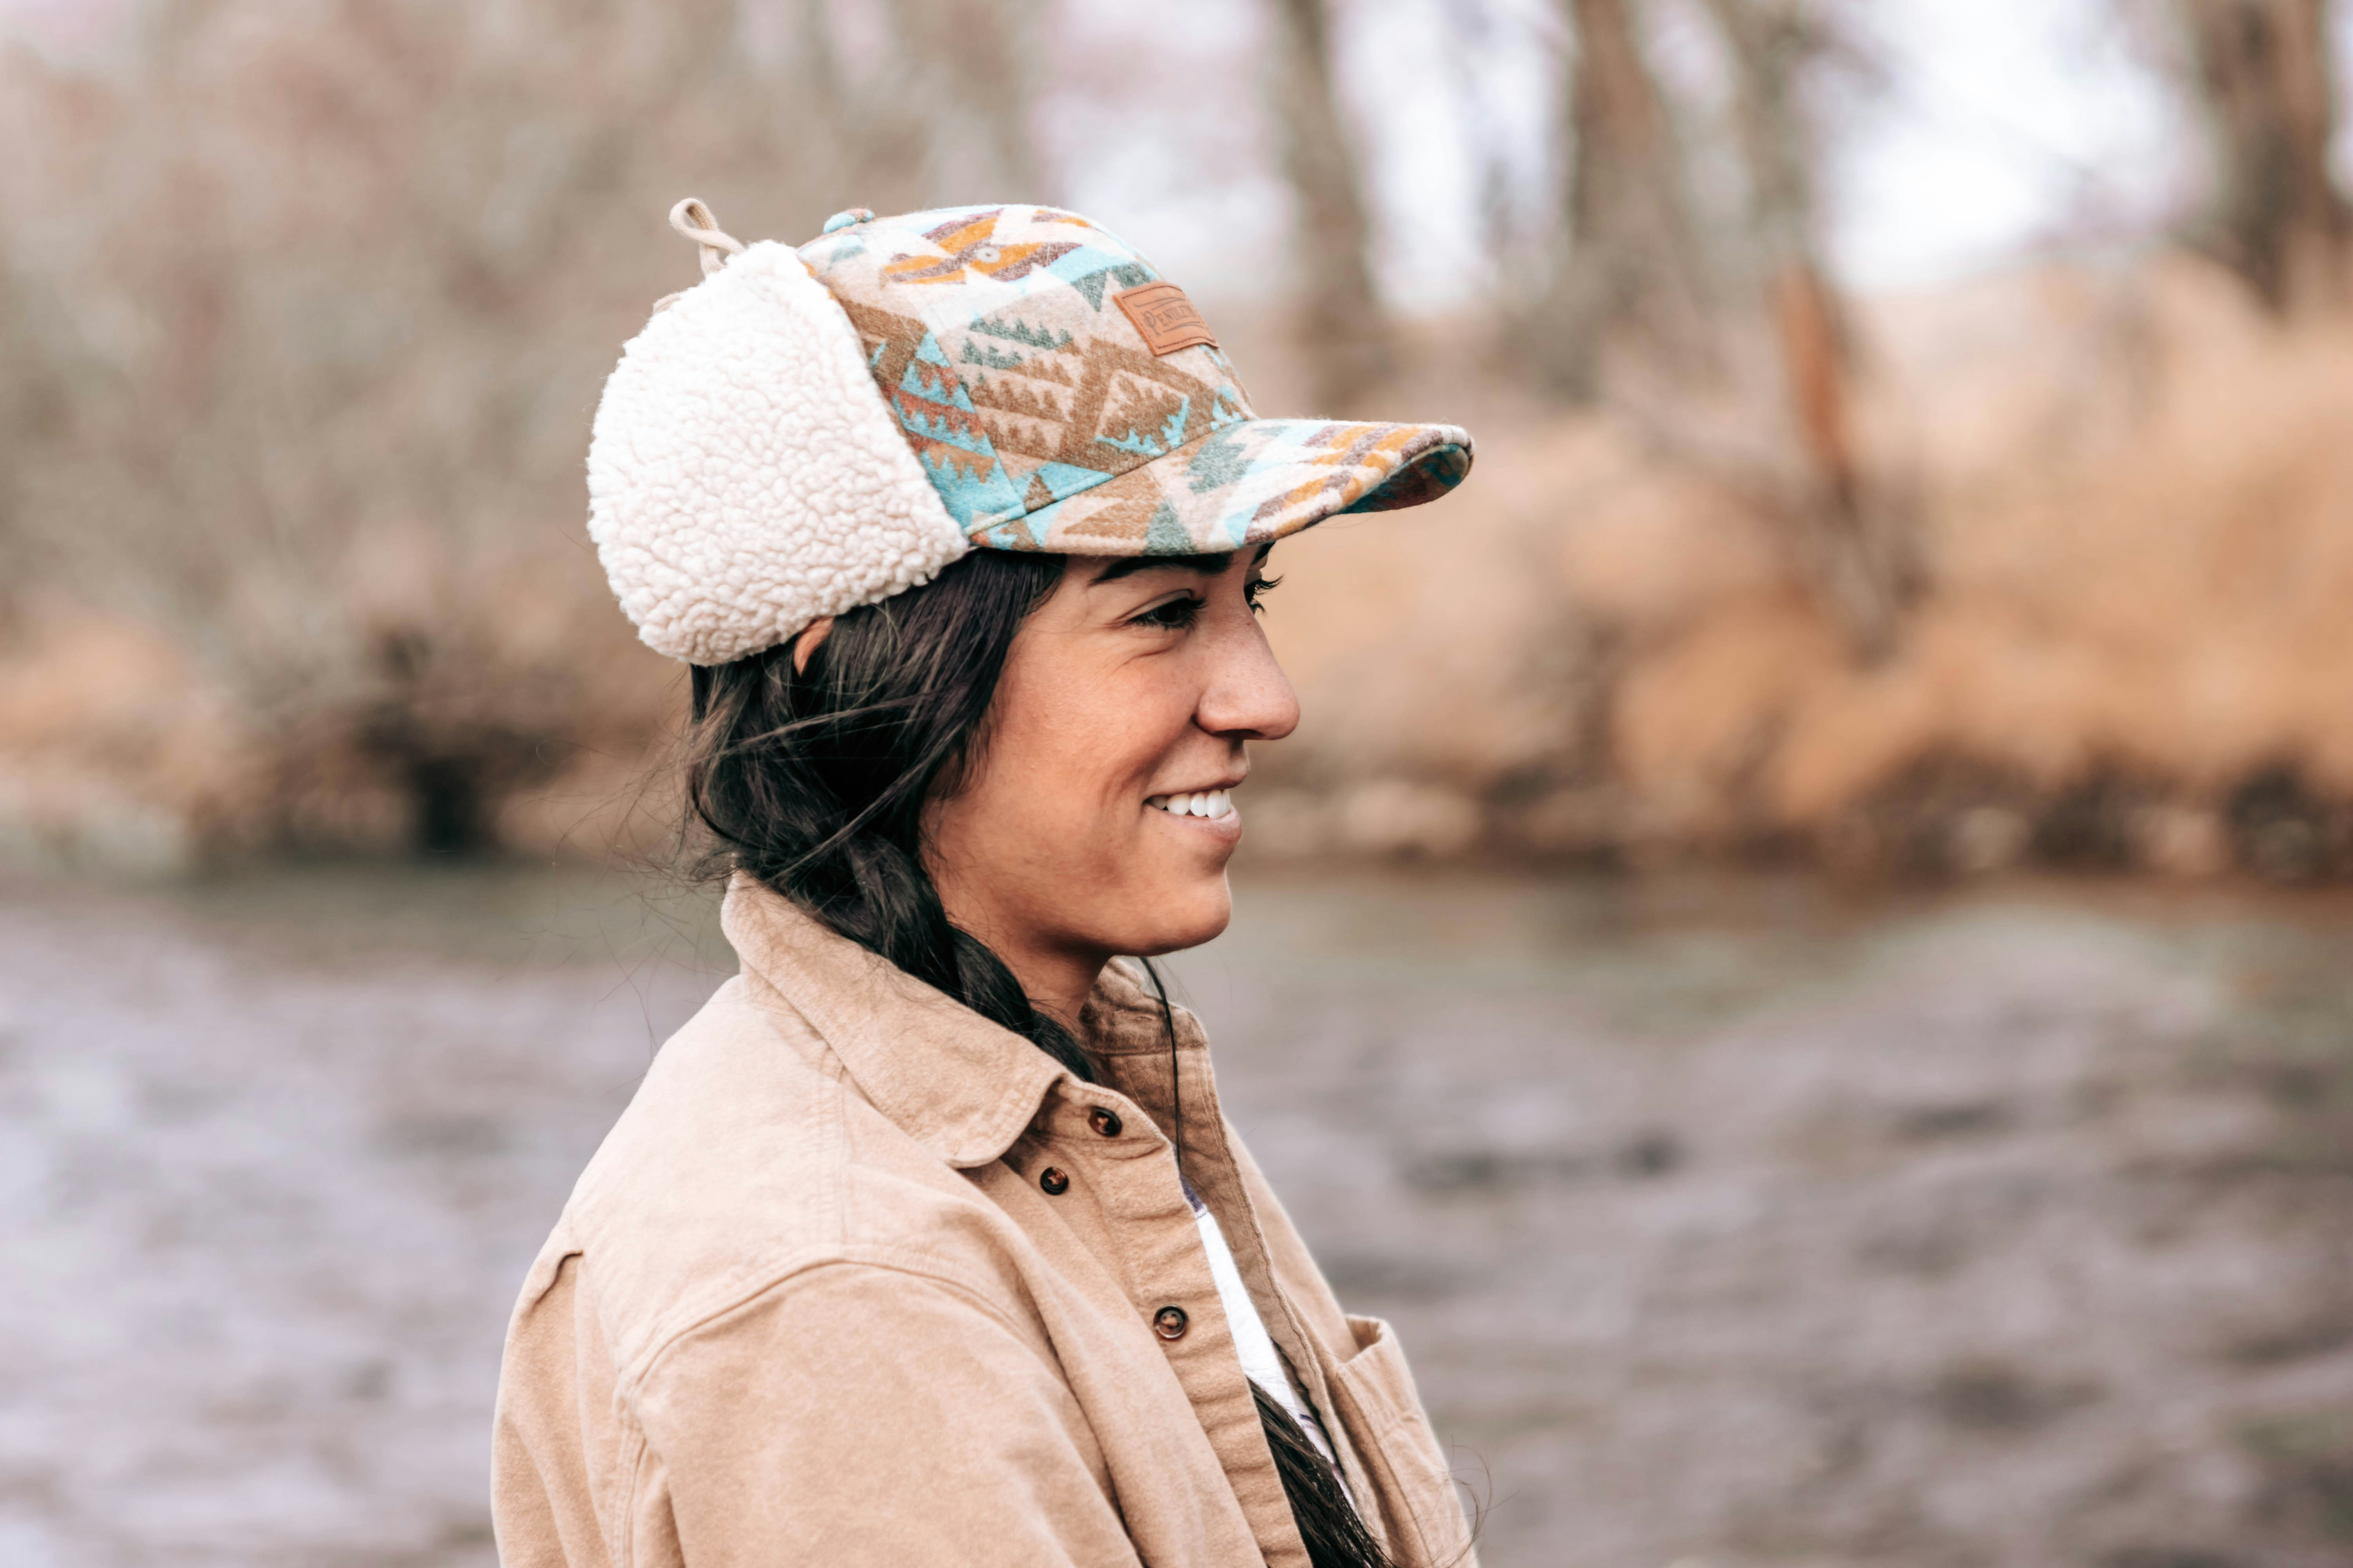
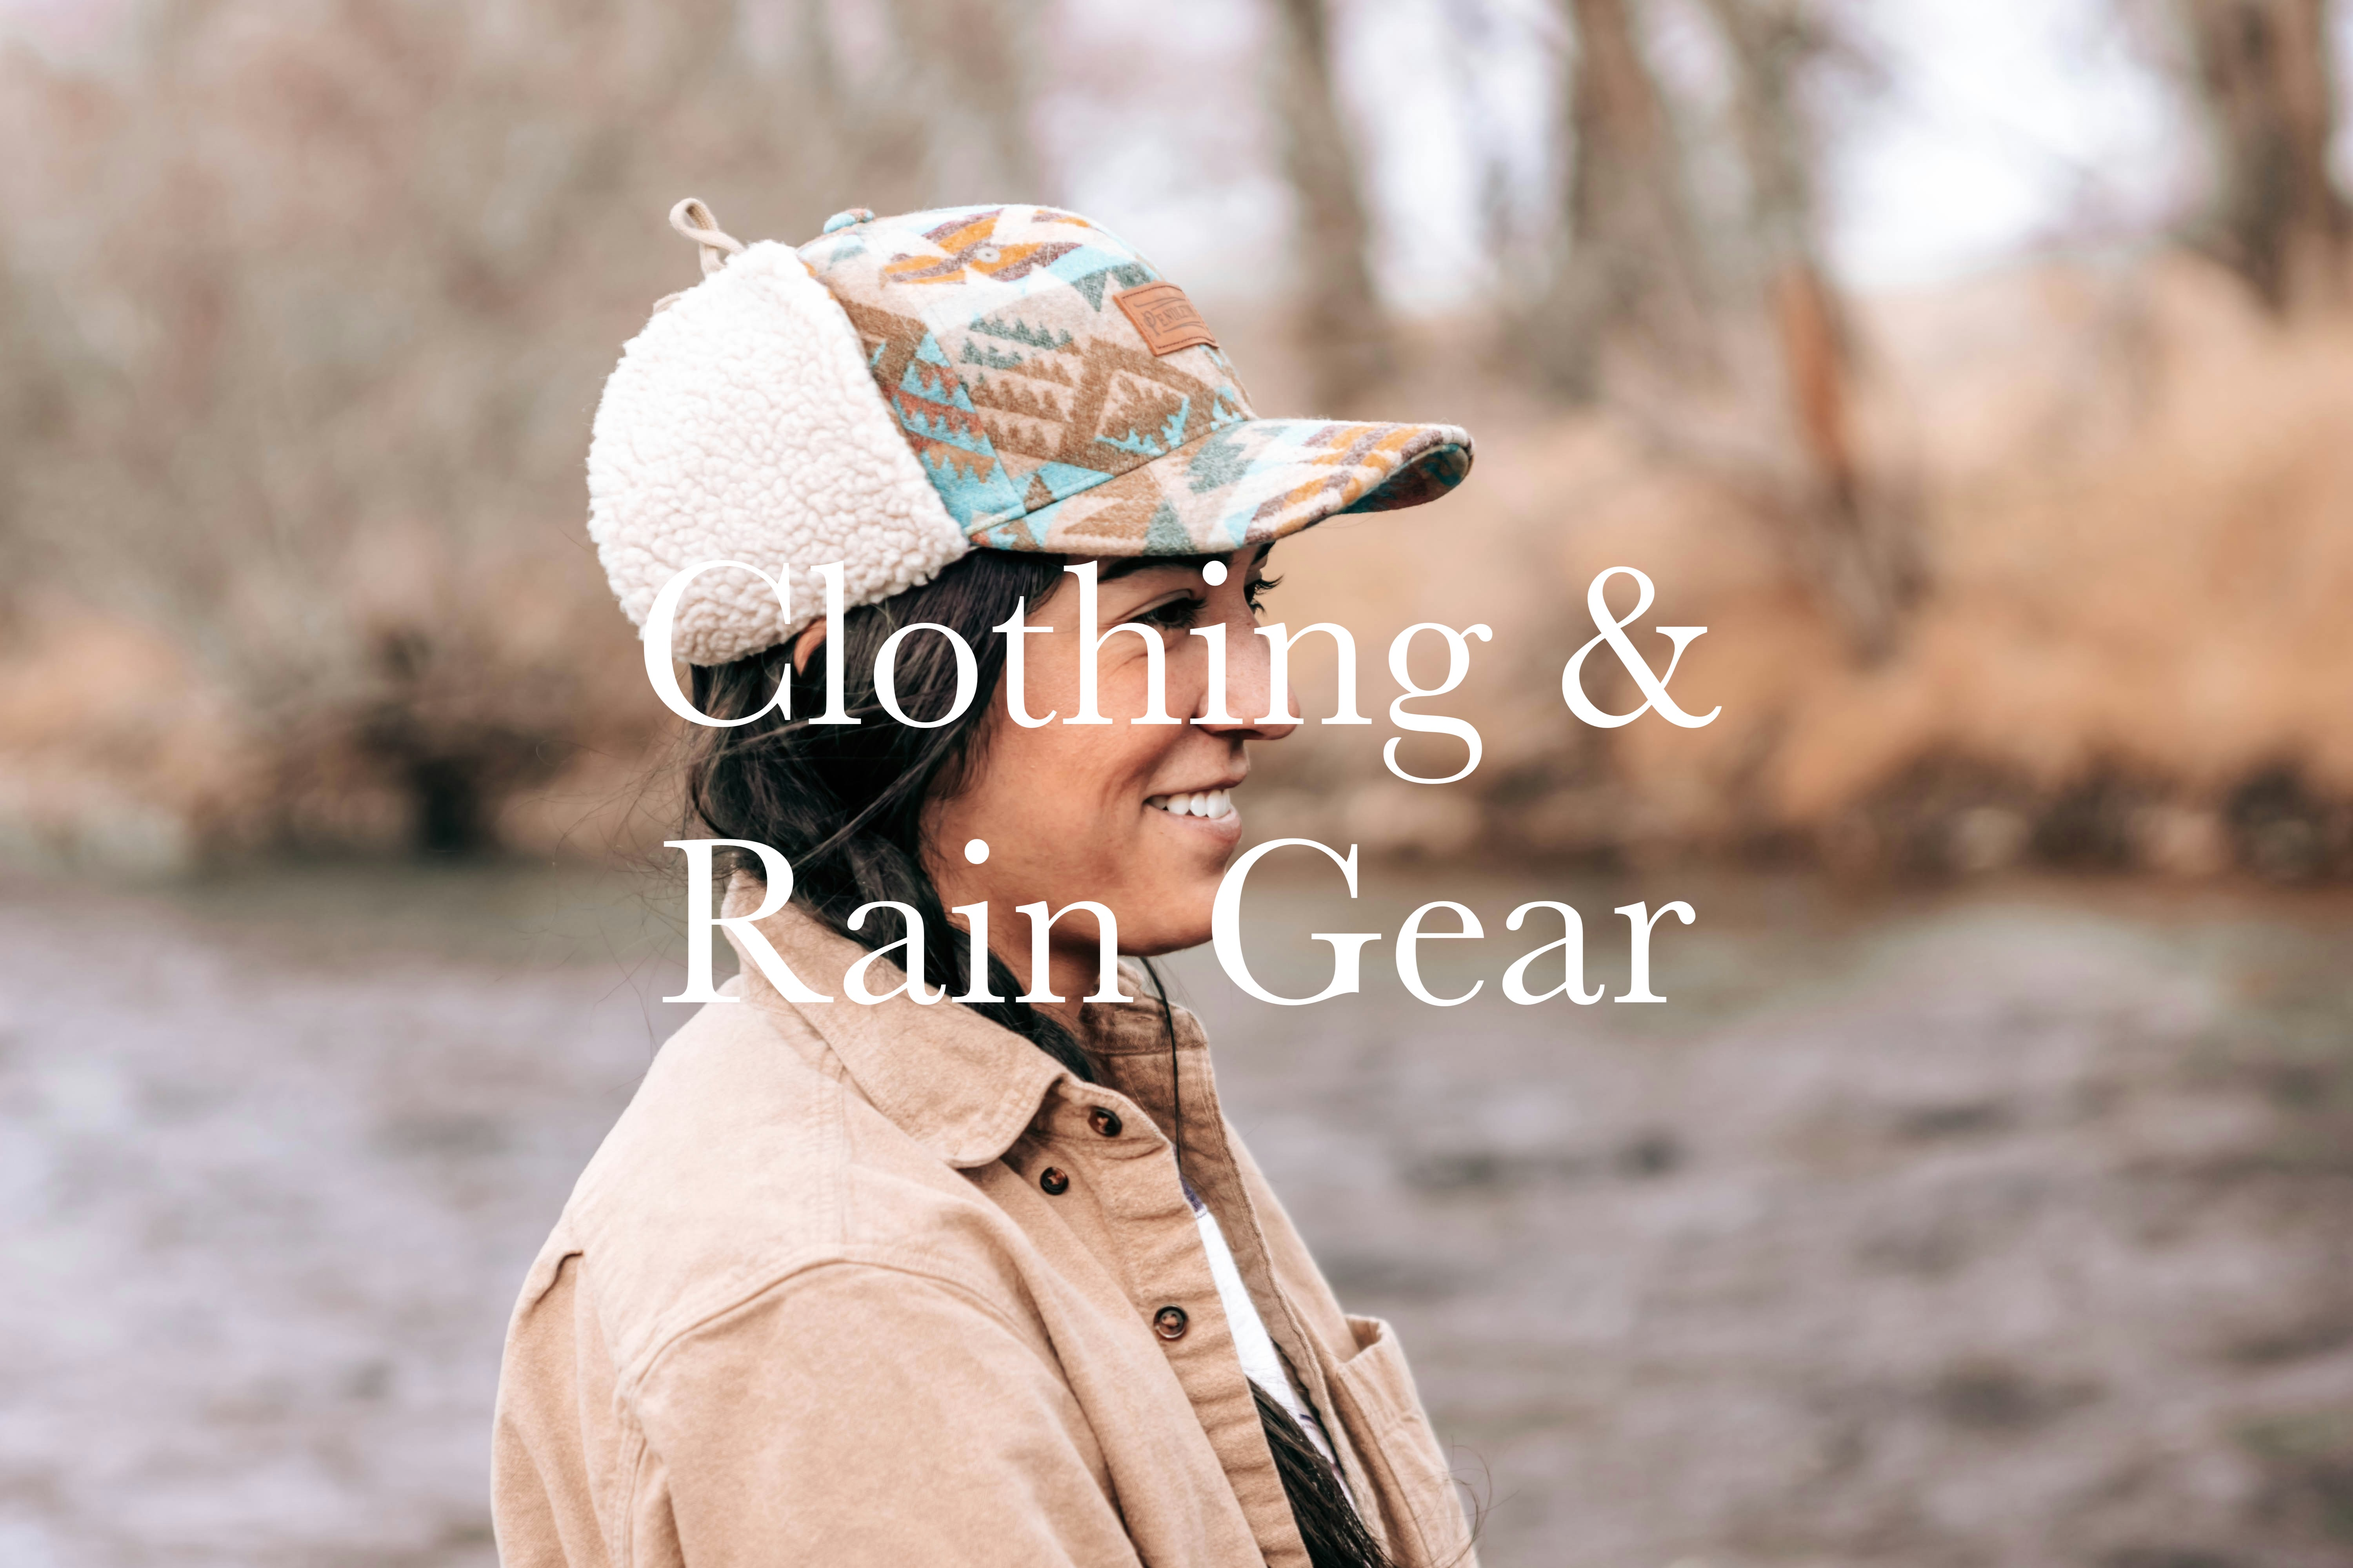
Stock Image
Replaced the live bait photo as it didn't match the theme. Added text to each image for the category of sales items they represent. Made the images links as well. Next step is styling.

diff --git a/stock.html b/stock.html
@@ -23,15 +23,17 @@
             </nav>
         </div>
         <header>Howard's Lakeside General Store</header>
-        <img src="Fishingrod.jpg" alt="Fishing Rods" class="Stockimages" />
-        <img src="Fishingreel.jpg" alt="Fishing Reels" class="Stockimages" />
-        <img src="Livebait.jpg" alt="Live Bait" class="Stockimages" />
-        <img src="Lures.jpg" alt="Lures" class="Stockimages" />
-        <img src="Fishinghooks.jpg" alt="Fishing Lines, Hooks, & Weights" class="Stockimages" />
-        <img src="Tacklebox.jpg" alt="Tackle Boxes and Bags" class="Stockimages" />
-        <img src="Fishingclothing.jpg" alt="Clothing & Raingear" class="Stockimages" />
-        <img src="Fishingnet.jpg" alt="Fishing Accessories" class="Stockimages" />
-        <img src="Catchoftheday.jpg" alt="Local Catch of the Day" class="Stockimages" />
+        <div class="stocknav">
+            <a href=""><img src="Fishingrod.jpg" alt="Fishing Rods" class="Stockimages" /></a>
+            <a href=""><img src="Fishingreel.jpg" alt="Fishing Reels" class="Stockimages" /></a>
+            <a href=""><img src="Livebait.jpg" alt="Live Bait" class="Stockimages" /></a>
+            <a href=""><img src="Lures.jpg" alt="Lures" class="Stockimages" /></a>
+            <a href=""><img src="Fishinghooks.jpg" alt="Fishing Lines, Hooks, & Weights" class="Stockimages" /></a>
+            <a href=""><img src="Tacklebox.jpg" alt="Tackle Boxes and Bags" class="Stockimages" /></a>
+            <a href=""><img src="Fishingclothing.jpg" alt="Clothing & Raingear" class="Stockimages" /></a>
+            <a href=""><img src="Fishingnet.jpg" alt="Fishing Accessories" class="Stockimages" /></a>
+            <a href=""><img src="Catchoftheday.jpg" alt="Local Catch of the Day" class="Stockimages" /></a>
+        </div>
 
         <footer>
             &copy; Elizabeth Sherwood 2024

diff --git a/styles.css b/styles.css
@@ -74,6 +74,9 @@ nav a:hover {
     font-weight: bold;
 }
 
+.stocknav a:hover {
+color: hotpink;
+}
 /*  =============
     Table Styles:
     =============
